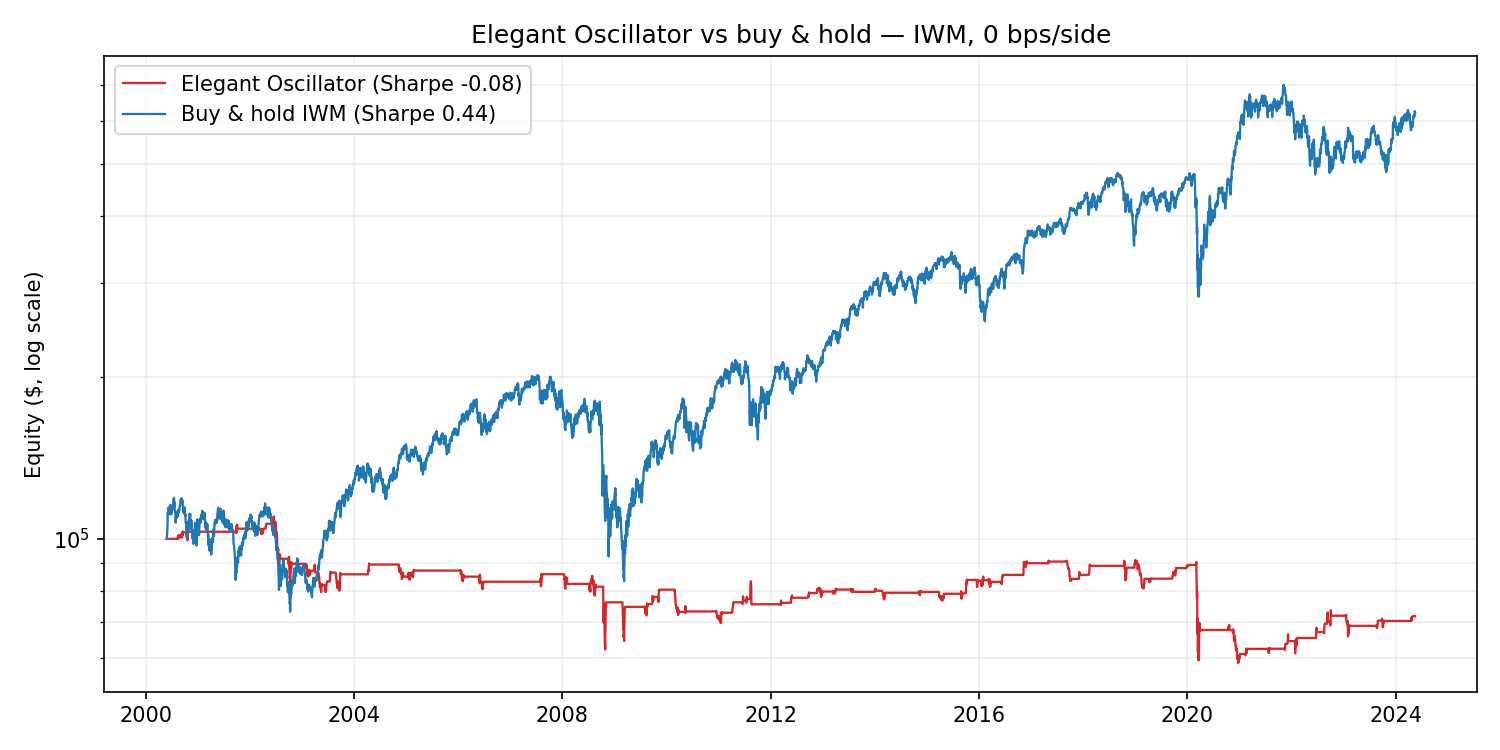
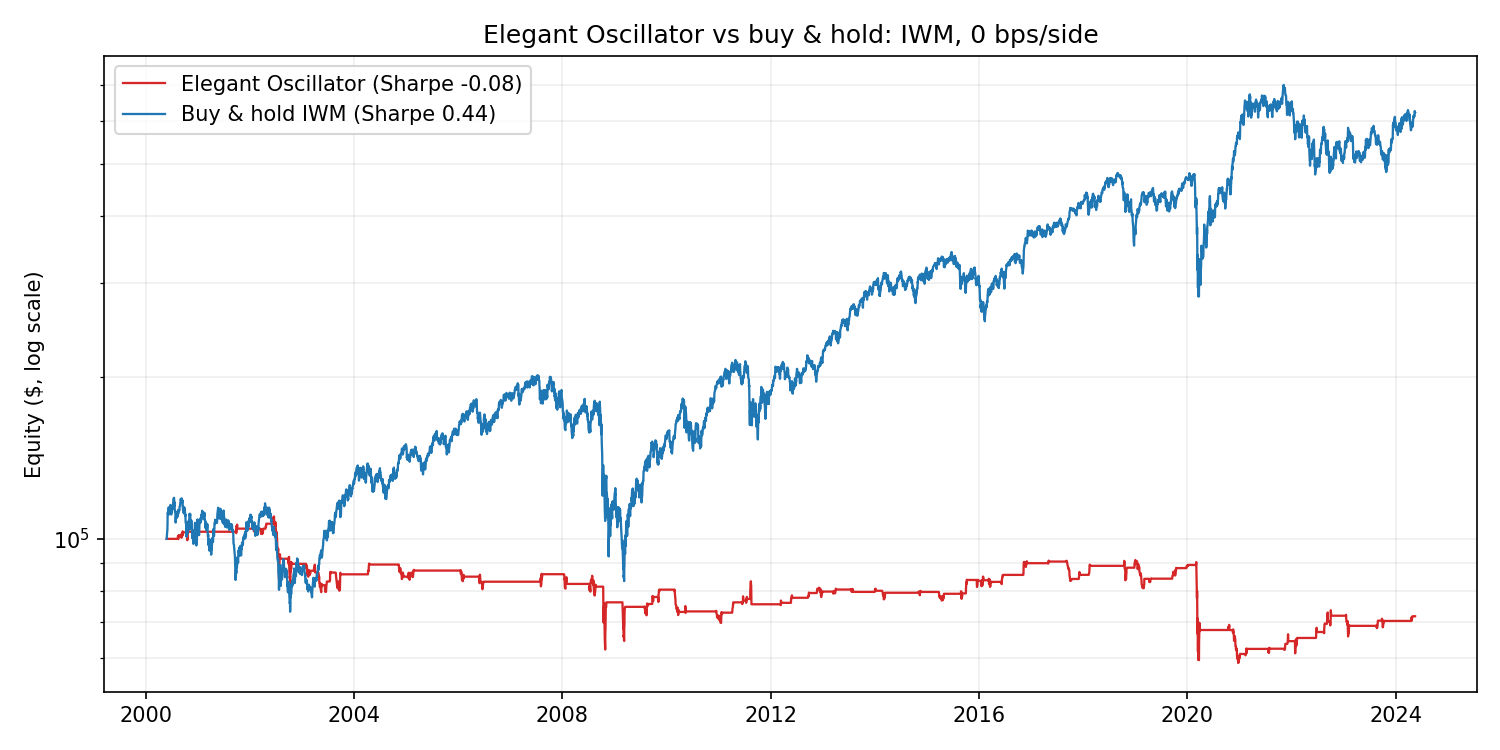
Remove em dashes from README, code and figure titles

Changed region(s): [[0.3067, 0.0307, 0.736, 0.0613]]

diff --git a/elegant_oscillator.py b/elegant_oscillator.py
@@ -370,7 +370,7 @@ def save_equity_plot(symbol: str, out_dir, cost_bps: float = 0.0):
             label=f"Buy & hold {symbol} (Sharpe {sharpe(bh):.2f})")
     ax.set_yscale("log")
     ax.set_ylabel("Equity ($, log scale)")
-    ax.set_title(f"Elegant Oscillator vs buy & hold — {symbol}, {cost_bps:g} bps/side")
+    ax.set_title(f"Elegant Oscillator vs buy & hold: {symbol}, {cost_bps:g} bps/side")
     ax.grid(True, which="both", alpha=0.2)
     ax.legend()
     fig.tight_layout()

diff --git a/README.md b/README.md
@@ -4,7 +4,7 @@ John Ehlers introduced the **Elegant Oscillator** (TASC, Feb 2022), built on the
 **Inverse Fisher Transform** of a normalised price derivative and smoothed by his
 two-pole SuperSmoother. [The Financial Hacker](https://financial-hacker.com/the-inverse-fisher-transform/)
 tested it as a mean-reversion signal on SPY and reported **5 of 7 winning trades,
-profit factor above 6** , over a single 14-month window (Mar 2020 – May 2021).
+profit factor above 6**, over a single 14-month window (Mar 2020 – May 2021).
 
 Seven trades on one hand-picked window is not evidence. This project reimplements
 the indicator from Ehlers' C/Zorro code in plain Python and asks the question the
@@ -12,7 +12,7 @@ original skips: **is there a repeatable edge once you stop cherry-picking?** Ful
 history, three liquid ETFs, transaction costs, and an explicit account of the one
 rule the source leaves undefined.
 
-**Verdict: no.** The signal is faithfully reproduced but does not generalise —
+**Verdict: no.** The signal is faithfully reproduced but does not generalise:
 negative return and Sharpe on every instrument over full history, far below
 buy-and-hold, and it is not a cost problem.
 
@@ -20,10 +20,10 @@ buy-and-hold, and it is not a cost problem.
 
 Translated directly from Ehlers' published code:
 
-- **Inverse Fisher Transform** `(e^{2x} − 1) / (e^{2x} + 1)` — squashes an
+- **Inverse Fisher Transform** `(e^{2x} − 1) / (e^{2x} + 1)`: squashes an
   unbounded input into (−1, 1), sharpening extremes (it is `tanh`).
-- **SuperSmoother** — a two-pole Butterworth low-pass filter, low lag.
-- **Elegant Oscillator** — normalise a 2-bar price derivative by its rolling RMS,
+- **SuperSmoother**: a two-pole Butterworth low-pass filter, low lag.
+- **Elegant Oscillator**: normalise a 2-bar price derivative by its rolling RMS,
   push it through the Inverse Fisher Transform, then SuperSmooth it:
 
 ```
@@ -42,11 +42,11 @@ down → short); a **valley below −0.5** means over-extended down (→ long).
 The published Zorro code calls `enterLong()` / `enterShort()` with **no exit
 rule**. On multi-year data that degenerates: the 2020–21 window has **seven peaks
 and zero valleys**, so a literal stop-and-reverse system just stays short a rising
-market, resulting in one trade, a −96% drawdown, and a meaningless test.
+market: one trade, a −96% drawdown, and a meaningless test.
 
 A signal with no exit is not a strategy. The default here is to **close when the
 oscillator reverts back through zero**, staying flat between trades. **The exit is
-ours, not Ehlers'** — so the verdict must not depend on it. It is also why the
+ours, not Ehlers'**, so the verdict must not depend on it. It is also why the
 trade counts here (6 in the window) match the article's seven signals while the
 outcome does not.
 
@@ -57,7 +57,7 @@ of 3 / 5 / 10 bars, and ride-to-the-opposite-band.
 ![Exit-rule sensitivity](Results/exit_sensitivity.png)
 
 The verdict holds: **14 of the 15 instrument × exit combinations post a negative
-Sharpe**, and the single exception — IWM on a 3-bar hold, Sharpe **0.10** — is
+Sharpe**, and the single exception, IWM on a 3-bar hold, Sharpe **0.10**, is
 noise next to buy-and-hold's 0.44. There is no exit rule that turns this signal
 into a usable edge, so the "no edge" conclusion is not an artifact of the one we
 picked.
@@ -84,8 +84,8 @@ tiny sample.
 | IWM | **-1.4%** | **-0.08** | -47% | 16% | 62% | 84 | +7.9% | 0.44 |
 
 Every instrument loses money and posts a negative Sharpe, against a buy-and-hold
-that compounds at ~8–10% a year. Note the **win rate is above 50%** everywhere —
-the signal is better than a coin flip on *direction* — yet it still loses, because
+that compounds at ~8–10% a year. Note the **win rate is above 50%** everywhere;
+the signal is better than a coin flip on *direction*, yet it still loses, because
 the payoff is asymmetric: wins are cut at the zero-cross while losers run.
 
 ![Elegant Oscillator vs buy & hold, SPY](Results/equity_SPY.png)
@@ -101,11 +101,11 @@ the payoff is asymmetric: wins are cut at the zero-cross while losers run.
 | 10 bps | -1.4% | -0.12 | 108 |
 
 Turnover is low, so costs barely move the result. The strategy is unprofitable at
-**zero** cost — the problem is the absence of an edge, not friction.
+**zero** cost: the problem is the absence of an edge, not friction.
 
 ## Conclusion
 
-The Elegant Oscillator is a well-constructed *indicator* — the DSP is sound and
+The Elegant Oscillator is a well-constructed *indicator*: the DSP is sound and
 the reproduction is faithful. But as a standalone mean-reversion *signal* it has
 no edge on broad US equity ETFs: negative expectancy over 25–31 years on three
 instruments, comfortably beaten by doing nothing. The published "profit factor
